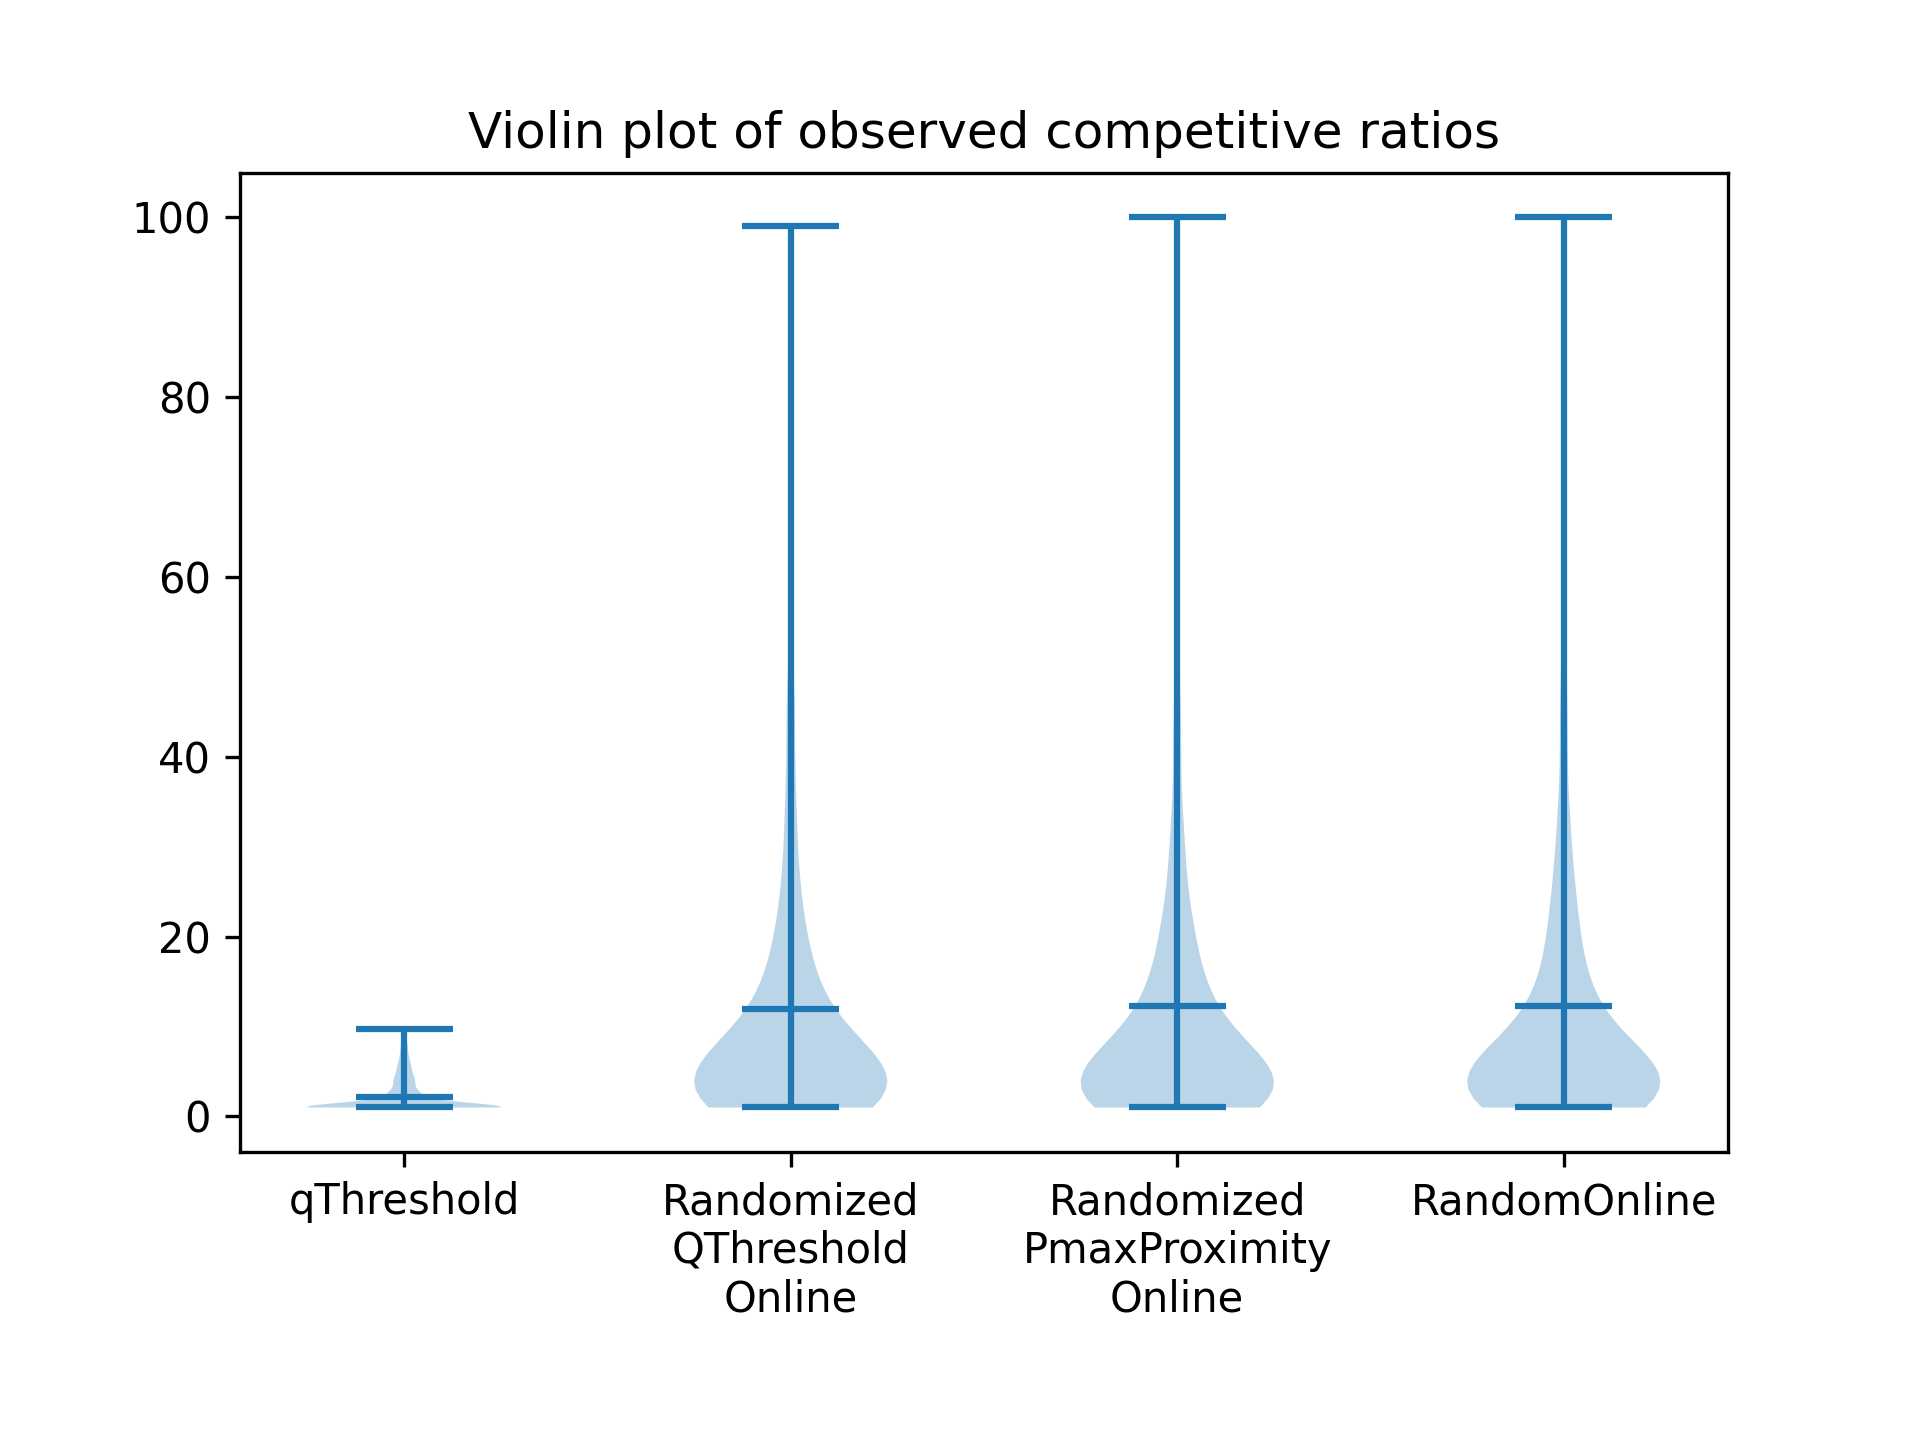
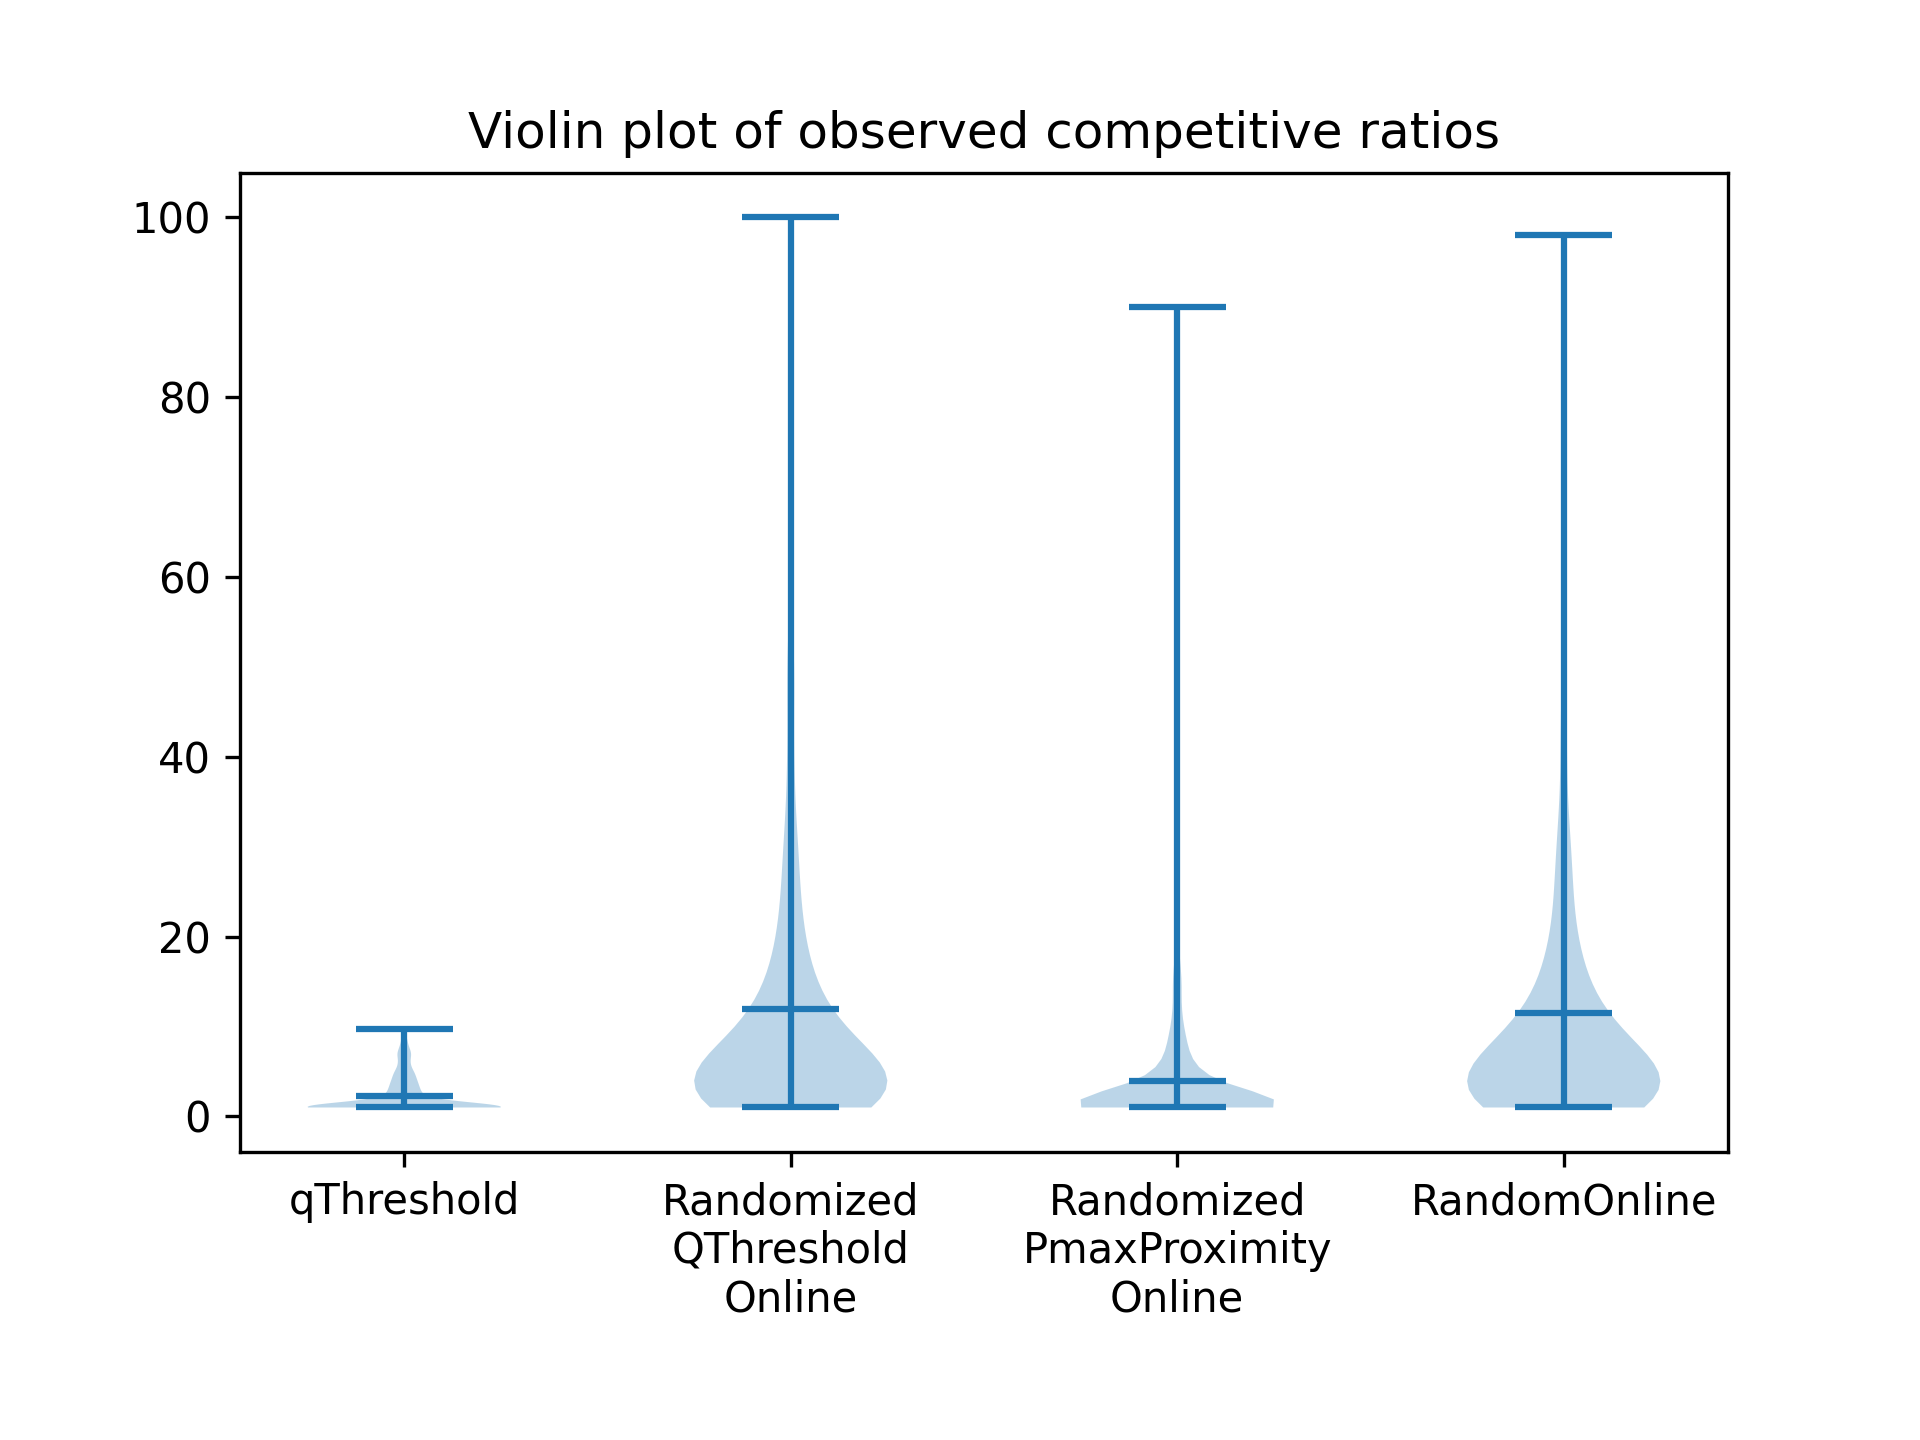
use p_i instead of s_i in probability_buy

diff --git a/algorithms/online.py b/algorithms/online.py
@@ -72,7 +72,11 @@ class RandomizedPmaxProximityOnline(Algorithm):
             flying = min(n_i, s_i)
             decision = flying # send max people back
         else:
-            probability_buy = max(1 - s_i / self.p_max, 0.01) #prevent p = 0
+            probability_buy = 0.01
+            if p_i < self.p_max / 3:
+                probability_buy = 1
+            elif p_i < self.p_max / 6:
+                probability_buy = max(1 - p_i / self.p_max, 0.01) #prevent p = 0
             flying = sum([random.random() < probability_buy for i in range(n_i)])
             decision = flying
         return decision
